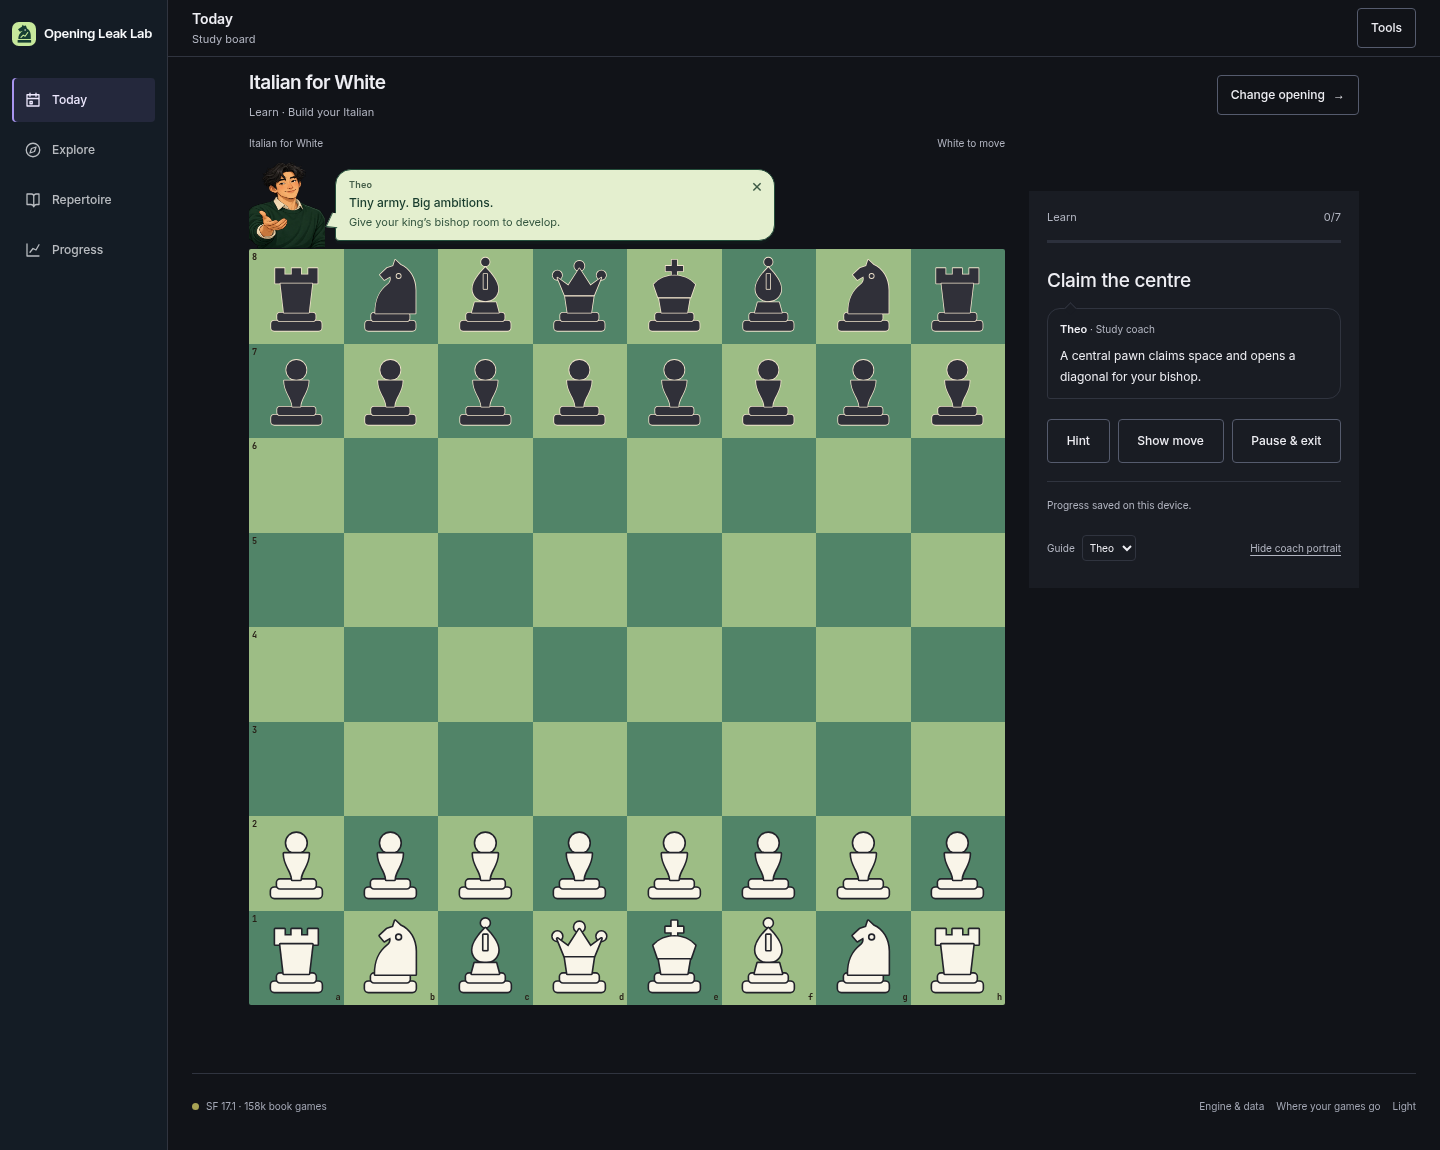
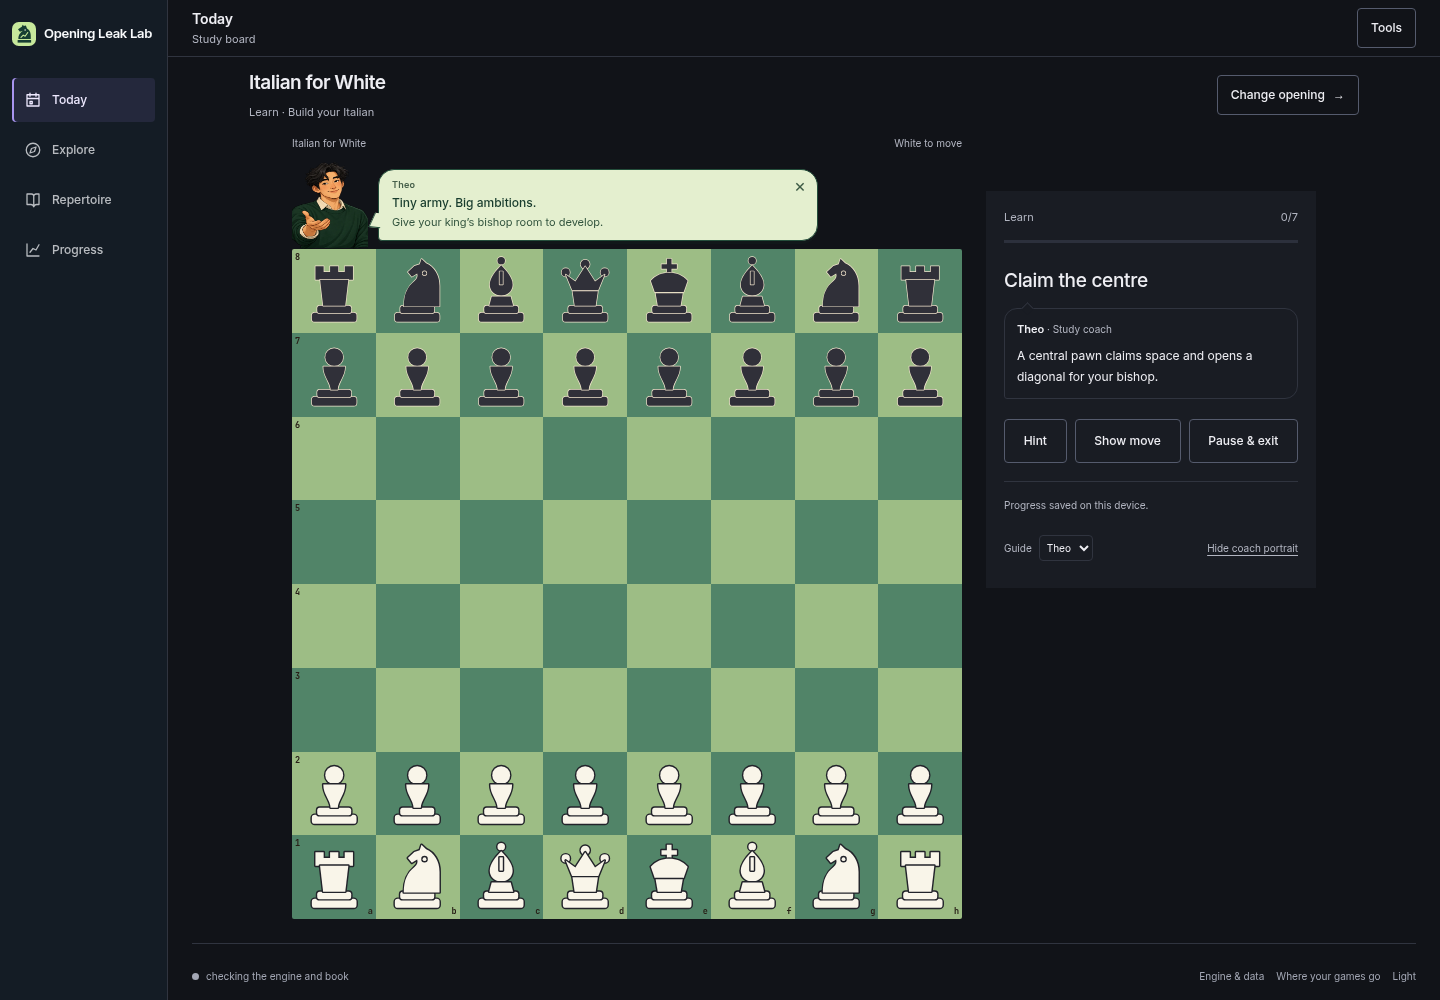
Keep the whole board visible below companion speech on desktop

diff --git a/chess-dashboard/public/app/workspace.css b/chess-dashboard/public/app/workspace.css
@@ -385,3 +385,8 @@ button, a, input, select, textarea, summary { -webkit-tap-highlight-color: trans
 .library-panel:has(#boardCompanion:not([hidden]):not(.is-quiet)) #trainingPanel .coach-speech { grid-template-columns:minmax(0,1fr); }
 .library-panel:has(#boardCompanion:not([hidden]):not(.is-quiet)) #trainingPanel .coach-portrait { display:none; }
 .library-panel:has(#boardCompanion:not([hidden]):not(.is-quiet)) #trainingPanel .coach-speech > div:before { top:-5px; left:18px; border-bottom:0; border-top:1px solid var(--line); }
+/* Budget for the character rail as well as the board on shorter desktop windows. */
+@media (min-width:1101px) {
+  .library-panel:has(#boardCompanion:not([hidden]):not(.is-quiet)) .library-body { grid-template-columns:minmax(0,min(760px,calc(100dvh - 330px))) minmax(270px,330px); }
+  .library-panel:has(#boardCompanion:not([hidden]).is-quiet) .library-body { grid-template-columns:minmax(0,min(760px,calc(100dvh - 270px))) minmax(270px,330px); }
+}

diff --git a/docs/board-companion-review.md b/docs/board-companion-review.md
@@ -39,11 +39,15 @@ preferences, separate from learning records.
 
 ## Checks
 
+- All **103 browser journeys** passed across the complete regression run and
+  focused reruns after correcting desktop board sizing.
+
 - 14 focused browser journeys passed: all three voices, keyboard activation,
   preview reactions, White/Black lessons, assisted practice, persistent quiet
   mode, hide/show behaviour, state preservation, reduced motion and layouts at
   360/390/768/1440px.
-- Mobile completion checks passed at 360×800 and 390×844.
+- Mobile completion checks passed at 360×800 and 390×844. The complete board
+  also fits within a 1000px-tall desktop viewport.
 - 15 axe WCAG A/AA scans passed across the public pages and light/dark lessons
   at 360/390/1440px. Automated scans are not full accessibility certification.
 - The complete application regression suite, hosted bundle assembly and
